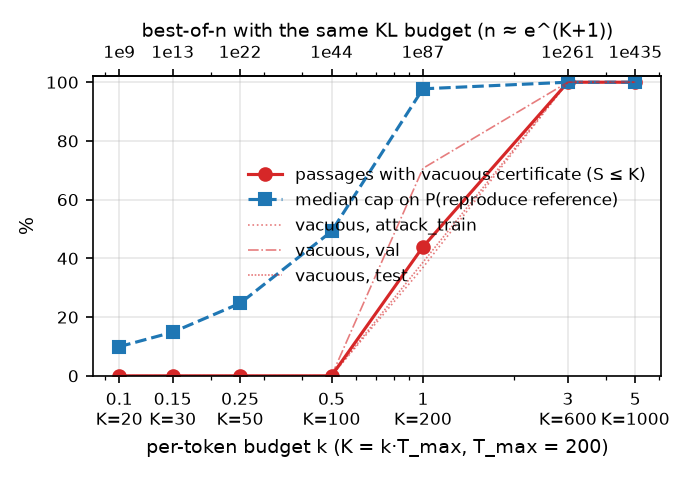
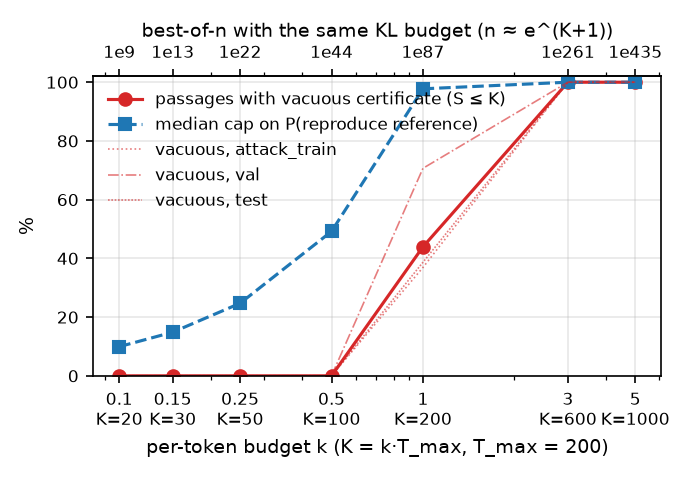
feat-006: move certificate-cap legend out of the data

diff --git a/analysis/certificate_cap.py b/analysis/certificate_cap.py
@@ -149,7 +149,7 @@ def main():
     top.set_xticks(ks)
     top.set_xticklabels([f"1e{(k * args.t_max + 1) / math.log(10):.0f}" for k in ks])
     top.set_xlabel("best-of-n with the same KL budget (n ≈ e^(K+1))")
-    ax.legend(loc="center right", frameon=False)
+    ax.legend(loc="upper left", frameon=False)
     fig.tight_layout()
     fig.savefig(os.path.join(args.figures, "certificate_cap_curve.pdf"))
     fig.savefig(os.path.join(args.figures, "certificate_cap_curve.png"), dpi=150)
